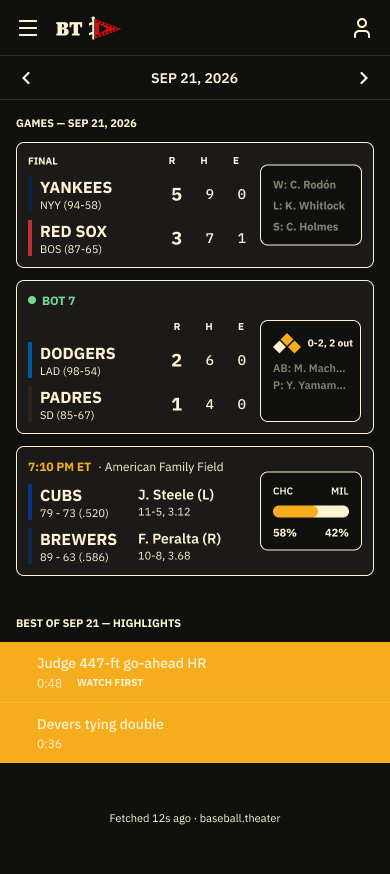
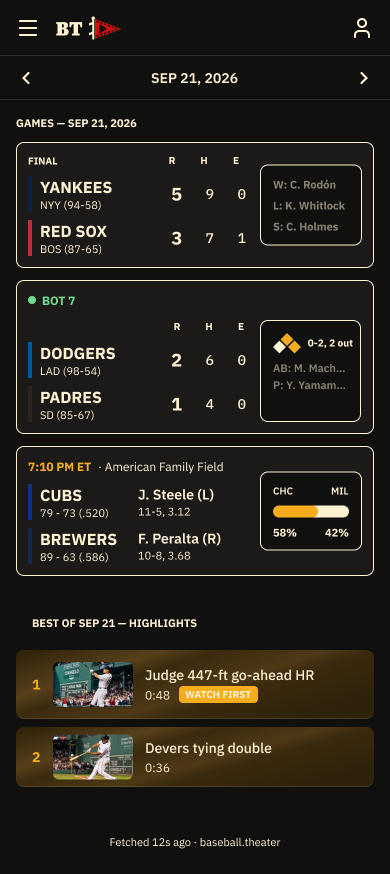
S31-S34: owner ratifies all four designs (RATIFIED.md + manifests); digest gold + thumbnails.
Go-ahead (owner, 2026-10-14): "Ok - I want to ratify all 4 designs".

Changed region(s): [[0.0, 0.7105, 1.0, 0.9886]]

diff --git a/docs/v3/visual/shell-scoreboard/DESIGN.md b/docs/v3/visual/shell-scoreboard/DESIGN.md
@@ -14,7 +14,7 @@ Every export is a 1× PNG of the Figma frame with the same name.
 
 | Export | Pairing | What it shows |
 | ------ | ------- | ------------- |
-| `scoreboard-mobile.png` | mobile | Header (burger · wordmark · account), date control, one column of full game modules: final (slot occupant: pitchers of record), live (`Bot 7` dot + label; slot occupant: count), scheduled (venue, probable pitchers; slot occupant: win probability). Team color is a 4px edge beside each team; names in Light. Day highlights digest below. |
+| `scoreboard-mobile.png` | mobile | Header (burger · wordmark · account), date control, one column of full game modules: final (slot occupant: pitchers of record), live (`Bot 7` dot + label; slot occupant: count), scheduled (venue, probable pitchers; slot occupant: win probability). Team color is a 4px edge beside each team; names in Light. Day highlights digest below: dull-gold items with the clip's thumbnail, rank, title, duration, and the Accent `WATCH FIRST` tag on the top clip. |
 | `scoreboard-medium.png` | medium | Same modules in a two-column canvas, no rail. |
 | `scoreboard-desktop.png` | desktop | The medium canvas beside the 240px nav rail (Scoreboard active). |
 | `scoreboard-collapsed-mobile.png` | mobile | Collapse non-favorites: one favorite as the full module, non-favorite games as the smaller bar (color swatch + abbreviation, `Collapsed` label). |
@@ -50,6 +50,7 @@ Recorded as the owner stated them.
 - **Raised current** (owner, 2026-10-14): "we need another MORE lifted color for things that are 'current' but already lifted, like the expanded accordion items" — `color/bg/raised-current` = `#272422`.
 - **Red on Dark** (owner, 2026-10-14): "there are some places we're showing red on black, which is not enough contrast." Red text and thin red marks use **Primary Light** `#FF5247` (`color/text/brand`); filled red (buttons, active nav, selected inning) keeps Primary.
 - **Unbound colors** (owner, 2026-10-14): muted text — "Do what you think is most logical" (see Interpretation); thumbnail overlays — "Light on Dark 50%"; pitch outcomes — "Balls are usually green, strikes red, in play blue."
+- **Day digest** (owner, 2026-10-14): "I want the background to be a dull amber, enough to tell that it's 'gold' and with a little diagonal double light gradient to simulate gold, but still quite dark so the light text is contrasty"; "those should have the video thumbnail"; "they should also have spacing between them and border radii."
 - **Hidden scores** (S35 follow-up, 2026-10-10): "the record should show those full block characters that are kinda semi opaque, and the hidden scores should be dashes" — and the block is "the character that is a full block but checkerboard or something. It's not literally transparent, but it has that illusion." Drawn as `▒` (U+2592) records and muted `–` score cells.
 
 Host pairings, the game-row slot, and collapse non-favorites were already **Accepted** in VISUAL-DESIGN and are not reopened here.
@@ -62,7 +63,7 @@ The agent's reading of things the frames show that no decision states. Each is t
 - *Agent:* the favicon is the flag shape alone (no `BT` letters), on the Dark ground. The frames contain no favicon drawing; S28/S20 should export it from the `wordmark` component.
 - *Agent (S35 choice):* room-menu links are plain underlined Light text at Label size, 4px apart.
 - *Agent (S35 choice):* the notice copy ("A new version of Baseball Theater is available.") is placeholder; the action is a Primary text link, not a button.
-- *Agent:* the medium/desktop day digest repeats the same highlight in both columns; that is sample data, not a layout rule.
+- *Agent:* the digest gold is a linear gradient at about 30° — base `#3A2A0E`, two soft highlights (`#56401A`, `#4E3916`), darkest `#2E220B` — so Light text stays above 8:1 everywhere on it. Each item shows the clip's 80×45 still (6px radius) between the rank and the title; items have an 8px radius and 8px gaps inside a 16px gutter.
 - *Agent:* every page ground, card and hairline in the file is now bound to a variable (`color/bg/page`, `color/bg/raised`, `color/border/*`, `color/text/*`). Team colors stay raw — they are data — and the batter illustration keeps its own greys.
 - *Agent (delegated by the owner):* muted text has one level — `color/text/muted`, Light at 50%. The former 30% secondary lines and the warm grey `#B9AAA4` both use it.
 - *Agent:* `Primary Light` `#FF5247` is ~5.9:1 on Dark and ~5.4:1 on Raised; Primary `#CE0F0F` on Dark is ~3.3:1, which is why text moved off it.
@@ -71,7 +72,7 @@ The agent's reading of things the frames show that no decision states. Each is t
 
 ## Open questions
 
-- **Day digest contrast.** The "Best of Sep 21 — Highlights" band puts Light text on an Accent (amber) fill, which reads poorly. Keep it, switch the text to Dark, or make the band Raised with an Accent marker?
+None.
 
 ## Work required
 

diff --git a/docs/v3/visual/shell-scoreboard/RATIFIED.md b/docs/v3/visual/shell-scoreboard/RATIFIED.md
@@ -1,0 +1,35 @@
+# Ratified — shell-scoreboard
+
+Ratified by: Jake Lauer (product owner)
+Date: 2026-10-14
+Source version: 2026-10-14 — live Figma file as edited and exported in the S31–S34 design session (the Plugin API cannot save a named version; no named version was taken).
+Go-ahead: "Ok - I want to ratify all 4 designs"
+
+The files below are sealed. Any change is a ratified amendment under `amendments/` (BACKLOG rule 18), never an edit.
+
+## Manifest
+
+55db082935e05efc65ad7be13eb4e20804e501415c194ad71fe1b3ba16d56724  DESIGN.md
+48fdcdfd138cea4baddbece48b7d7e6cb51a12eef16f0a4fc532cc671a0e1ccd  REVISIONS.md
+32e756f104e11f87d5f31bf1dc5b98cc7a5acb7bddb037edd204e1b0009f6e21  scoreboard-collapsed-desktop.png
+5053f9126ae511297533f4716ca7fcc7c7d661847dc5fca79caebf9ef70ce31c  scoreboard-collapsed-medium.png
+7c5ae73bf7286469a2629f16973eb1eab2a19b256b66c23977518f7e1097561f  scoreboard-collapsed-mobile.png
+a03403e19954fe2aa50f9b7146aea260f759f17b463d334fcc12dbabe457414a  scoreboard-desktop.png
+6bd72b831acf1c71f39b393d7629ac03347dbfeb31354312ad41ca979fec759b  scoreboard-empty-desktop.png
+092c99c17da25ff160c13ecac396d5fec7e5fdb953873a384b7197397579cbb8  scoreboard-empty-medium.png
+0f2b25d9bd3a9e4be60d1c5f10cb3e4c2a302fb9382f4ac6d0749a5732a93bcb  scoreboard-empty-mobile.png
+3b316a40ba6d48b1a35609bb39243722f88139226a310992158ea644497c2fbf  scoreboard-error-desktop.png
+2ebc78ec85def2aae2ce3e10c31831718f0782520dc8fdea736b899d8985e3ad  scoreboard-error-medium.png
+f1510767502595914739b865955346f24d9a2e92408dc5035f83ccbca4a5d098  scoreboard-error-mobile.png
+db769688177acc72c82d0103527605e4aa8f1aa15f4dee4907e4b5146190b7ca  scoreboard-loading-desktop.png
+0af82bcae41ac546a669ce312ed746961fff01a326c68c3ddbece9cc8bbb86aa  scoreboard-loading-medium.png
+7df6a59d8662be016eba92102c93a9997c63aad175685b75b9a9c235f45fcf3b  scoreboard-loading-mobile.png
+7cfb63af52eb6a2a52d88dd13023083e1073d948901c61864239a5da7dbc958e  scoreboard-medium.png
+031a036814cbbf3e5bd33a2e7ca77ae6663d10af1a4ffd9bd250bfb95ff4a936  scoreboard-mobile.png
+12fd581e8e246d4e6cacc96b9250a9ef6fec412e9f6bbcfa580c4b3a55ef98f5  scoreboard-scores-hidden-desktop.png
+98bd357082ca5018a3b8fac9dc32eb7ab81e47995e3efd35cda558fb5c5290db  scoreboard-scores-hidden-medium.png
+c8c9d8f8e45adb6c3460c0c20231e683494d6f58b82ed6b3bbb2e056d8000531  scoreboard-scores-hidden-mobile.png
+3f01a326ad5b46ea099423eba497da21d7c8cb7cb7d7259014f0398d22674fdb  scoreboard-slot-room-menu-mobile.png
+f91945f7da6014dd1ebb802d88db57a861dcb326fb38896d392100263c80905e  shell-notice-desktop.png
+448e7ecb6a32ff4ddd8e35228d0753b279ea9bb73638e4c6b1bb3916be83949a  shell-notice-medium.png
+af690a7ad1c91b3841d9a28ba8c45f65647ab301ba5ecc8c515feeae13201c7b  shell-notice-mobile.png

diff --git a/docs/v3/visual/game-rooms/RATIFIED.md b/docs/v3/visual/game-rooms/RATIFIED.md
@@ -1,0 +1,29 @@
+# Ratified — game-rooms
+
+Ratified by: Jake Lauer (product owner)
+Date: 2026-10-14
+Source version: 2026-10-14 — live Figma file as edited and exported in the S31–S34 design session (the Plugin API cannot save a named version; no named version was taken).
+Go-ahead: "Ok - I want to ratify all 4 designs"
+
+The files below are sealed. Any change is a ratified amendment under `amendments/` (BACKLOG rule 18), never an edit.
+
+## Manifest
+
+f071bc54db3462073d17dacd6473f30d89356c6c9f996a80609865817d0a72f6  DESIGN.md
+fd705eb8b54f9f0f46bacecf82f4247f3a9282fbcd73cd3fac3f33d7cd8978b4  REVISIONS.md
+1f3c417376835bfff10bb2d2a8ba74199fb86aab3626388695d72de9ba842b07  box-desktop.png
+cf3e9ca7d9d97d982f2e64ddcf938d0280f73be1945e852c0bd39c46e3d59276  box-medium.png
+928788fa8792534803dbe51a380f1ec99b553b1276c91fe22b58a3078a39ba2e  box-mobile.png
+53e0c160a4644f76da37c93d9025de0cbf653649db79e0ad10bdfb7f0b69105e  live-desktop.png
+6b975957480f6f663e183494d924b6cd006191869fc83cf92c105545de144843  live-medium.png
+184208e5c748b8f331bf438655da7717e5189debd47edac8452a0c2e272a0eaa  live-mobile.png
+41ae34aecc67da07eb0212ebc6acdc32cac9a2487c21c1c5dc8326108323e841  plays-desktop.png
+5da7cbd7fcebe584cecac43dcfc5206b92cb5f28c8c0d2c24c3e9a83de0d4005  plays-medium.png
+8a762f856d50cbdb2c6361bb9b01097615dad399de038947c4aff02694c984dc  plays-mobile.png
+8d5fad2cf57ff58de1eebd3427ce7f94572f05b29249c40bb57534a32c3428a2  plays-scoring-mobile.png
+fca42f4173b82e58825b9a8d627439ef9e436f98d0e10000086a51df56983be9  recap-desktop.png
+5e68bf5e5394092d0ee7c46798c2684adab66af693210d7d90142b100351d7f6  recap-medium.png
+c9af3515b1f5e9497bbf7b87f24552d5fdd59fa79b6ec0120459dfab323e87b0  recap-mobile.png
+b5af8d3333d3c366ed67a70287165962947bc9754d562a34c7072a61701aee24  room-empty-mobile.png
+fa24e1276551149aa5438e2531c07fb7ac1e1f9f2ba479b5a13f3aecfaf4018e  room-error-mobile.png
+7f271acb9de6bec6f07129f39310c1517362ca70dceb2042ab30b71f7756c510  room-loading-mobile.png

diff --git a/docs/v3/visual/game-shell/RATIFIED.md b/docs/v3/visual/game-shell/RATIFIED.md
@@ -1,0 +1,25 @@
+# Ratified — game-shell
+
+Ratified by: Jake Lauer (product owner)
+Date: 2026-10-14
+Source version: 2026-10-14 — live Figma file as edited and exported in the S31–S34 design session (the Plugin API cannot save a named version; no named version was taken).
+Go-ahead: "Ok - I want to ratify all 4 designs"
+
+The files below are sealed. Any change is a ratified amendment under `amendments/` (BACKLOG rule 18), never an edit.
+
+## Manifest
+
+adda40caf1091bcd35ca901b205dd107fe8dd7bd803f1962517a51bc9e9df4bb  DESIGN.md
+0762bc779abe8ed7c05e7984cd6f07b175203570611c3f4619513c73e9124337  REVISIONS.md
+2b078b7af80f6ca10b3e601f29027fd3212b94bfc4a9376e02df808e6736a203  game-hidden-score-mobile.png
+d9de0092c3a856eec012184438b35788f569a7af2956aeb3bf00fdc56b421136  game-phase-final-mobile.png
+91783698cef1d915ddd99077d4f82cfeea513960f5c67cdc8f31c1dc15dc8123  game-phase-live-mobile.png
+98b0e829bc8c2da235a465915309a835020b165a9f4550f5ac55d6c0fa68883e  game-phase-pregame-mobile.png
+3bde6d26cb05721bf4d59955309c754f892e9f5b0bd3195ff5490b4511c44835  game-videos-grid-desktop.png
+c8a1e536214c30a3c61613c1972cbccdba35227949c88d909b29251f4e32fe5a  game-videos-grid-medium.png
+d9de0092c3a856eec012184438b35788f569a7af2956aeb3bf00fdc56b421136  game-videos-grid-mobile.png
+7848120339d6f6a36a6dfc3ef4c70469d6204c15f8bfbb8ec11af5d5fc6b7388  game-videos-list-mobile.png
+d610d9bcbba9975b621549ebb07a947705fffdcc96f7a4b6d46915a46a1cfe39  video-player-dialog-medium.png
+3f128e11d70ba7998381546ece29267654ec3c3ad680acc885c7687cce0b08c4  video-player-dialog-mobile.png
+183b62bb6b2d5410c48f32e30512900b580e35be504bea7804892135d592b219  video-player-stage-medium.png
+9888ffa44aa3936c9f0bc3077dcd6d748845e2fa1ce3fe89610fb6c3f3e4e680  video-player-stage-mobile.png

diff --git a/docs/v3/visual/standings-search-settings/RATIFIED.md b/docs/v3/visual/standings-search-settings/RATIFIED.md
@@ -1,0 +1,22 @@
+# Ratified — standings-search-settings
+
+Ratified by: Jake Lauer (product owner)
+Date: 2026-10-14
+Source version: 2026-10-14 — live Figma file as edited and exported in the S31–S34 design session (the Plugin API cannot save a named version; no named version was taken).
+Go-ahead: "Ok - I want to ratify all 4 designs"
+
+The files below are sealed. Any change is a ratified amendment under `amendments/` (BACKLOG rule 18), never an edit.
+
+## Manifest
+
+307f943c95dbc1576be1f3ca71b49ccd109c67e1ca34361db01e2cf453993d57  DESIGN.md
+bd67605f197927f3b6cf8229d8c02e41de66f6d0888e1a382b563e2e2c3597e9  REVISIONS.md
+22da913aa23a0eee03d5c5f5c35e6446757432d8b88b7904bb7c1db22a864c4c  search-desktop.png
+5b94b687179b9b9f22f44e03d6aa8bf7d7b96379dabf8071a14a041cff0da52f  search-medium.png
+6a019d7b58deaa16186544b7f4a8c604540a23e919d1bedb358c4c604843dc24  search-mobile.png
+d3e3d60fca5a703c09495bcfdc7f670b301451426db0d28c878ddc940aae7f3e  settings-desktop.png
+bd59e068cd55ecae13a91fb3357e0fce3ebd8553329e8fa9ed0339416341a5a6  settings-medium.png
+2ec4e59365f45703d2da086fd0f9c3792abb5beefa596361c4617b01e396828b  settings-mobile.png
+c36237e7078f967d026c56377fd90bf497186c6e8e95c05eb9e5c6bb44182ed7  standings-desktop.png
+a5db812bdd9c59090d3b0077481df772f2665c545da81b559d70d2f4200fbd71  standings-medium.png
+6b2b0c808ac46b8984add44dde391c127a335c528bcb5e8a85b267b6ccfacccb  standings-mobile.png
